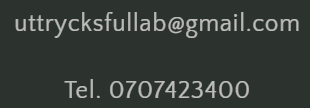
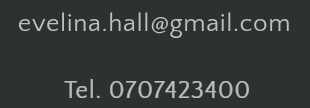
sync

Changed region(s): [[0.029, 0.1111, 0.9871, 0.3611]]

diff --git a/index.html b/index.html
@@ -20,16 +20,26 @@
   <meta name="twitter:description" content="Evelina Häll">
 
   <!-- Google tag (gtag.js) -->
-  <script async src="https://www.googletagmanager.com/gtag/js?id=G-5SR5Q91B7E"></script>
-  <script>
+<script async src="https://www.googletagmanager.com/gtag/js?id=G-2BZXZC4FWJ"></script>
+<script src="https://cdn.amplitude.com/libs/analytics-browser-2.11.1-min.js.gz"></script>
+<script src="https://cdn.amplitude.com/libs/plugin-session-replay-browser-1.8.0-min.js.gz"></script>
+
+<script>
     window.dataLayer = window.dataLayer || [];
     function gtag(){dataLayer.push(arguments);}
-    if (window.location.hostname.includes('evelinahall')) {
-      gtag('js', new Date());
+  if (window.location.hostname.includes('.se')) {
+    // GA
+    gtag('js', new Date());
+    gtag('config', 'G-2BZXZC4FWJ');
 
-      gtag('config', 'G-5SR5Q91B7E');
-    }
-  </script>
+    try {
+      // amplitude
+      window.amplitude.add(window.sessionReplay.plugin({sampleRate: 1}));
+      window.amplitude.init('5be63d17755e6d6ec7bd207ca9fa2553', {"autocapture":{"elementInteractions":true}});
+    } catch (e){}
+
+  }
+</script>
 
   <script src="/js/global.js" defer="defer"></script>
   <script src="/js/animations.js" defer="defer"></script>
@@ -121,22 +131,13 @@
                   <nav class="menu-drawer__navigation">
                     <ul class="menu-drawer__menu has-submenu list-menu" role="list">
                       <li><a id="HeaderDrawer-konst" href="#konst"
-                        class="menu-drawer__menu-item list-menu__item link link--text focus-inset">
+                        class="menu-drawer__menu-item list-menu__item link link--text focus-inset menu-drawer__menu-item--active" aria-current="page">
                         Konst
                       </a></li>
-                      <li><a id="HeaderDrawer-inredning" href="https://www.uttrycksfull.se"
-                          class="menu-drawer__menu-item list-menu__item link link--text focus-inset menu-drawer__menu-item--active"
-                          aria-current="page">
-                          Inredning &amp; Kreativa miljöer
-                        </a></li>
-                        <!-- <li><a id="HeaderDrawer-galleri" href="#galleri"
-                          class="menu-drawer__menu-item list-menu__item link link--text focus-inset">
-                          Galleri
-                        </a></li> -->
-                        <li><a id="HeaderDrawer-om" href="#om"
-                          class="menu-drawer__menu-item list-menu__item link link--text focus-inset">
-                          Om
-                        </a></li>
+                      <li><a id="HeaderDrawer-om" href="#om"
+                        class="menu-drawer__menu-item list-menu__item link link--text focus-inset">
+                        Om Evelina
+                      </a></li>
                     </ul>
                   </nav>
                   <div class="menu-drawer__utility-links">
@@ -173,20 +174,12 @@
         <nav class="header__inline-menu">
           <ul class="list-menu list-menu--inline" role="list">
             <li><a id="HeaderMenu-konst" href="#konst"
-              class="header__menu-item list-menu__item link link--text focus-inset">
+              class="header__menu-item list-menu__item link link--text focus-inset" aria-current="page">
               <span>Konst</span>
             </a></li>
-            <li><a id="HeaderMenu-inredning" href="https://www.uttrycksfull.se/#inredning" class="header__menu-item list-menu__item link link--text focus-inset"
-                aria-current="page">
-                <span>Inredning &amp; Kreativa miljöer</span>
-              </a></li>
-              <!-- <li><a id="HeaderMenu-galleri" href="#galleri"
+            <li><a id="HeaderMenu-om" href="#om"
                 class="header__menu-item list-menu__item link link--text focus-inset">
-                <span>Galleri</span>
-              </a></li> -->
-            <li><a id="HeaderMenu-om" href="https://www.uttrycksfull.se/#om"
-                class="header__menu-item list-menu__item link link--text focus-inset">
-                <span>Om</span>
+                <span>Om Evelina</span>
               </a></li>
           </ul>
         </nav>
@@ -263,7 +256,7 @@
         <div style="padding: 0px 16px 0px">
           <p style="text-align: left;">
             <img src="/img/evelina_small.jpg" alt="" width="153" style="float: right; padding: 12px;" class="norounding">
-            Min egen konst som letar efter miljöer och hem att få förgylla. Konsten är för mig ett sätt att ge uttryck för känslor och tankar och det fina är att en tavla eller ett konstverk kan betyda något helt annat för dig än för mig. Därför är just konst ett utmärkt sätt att omge sig av hemma eller i den miljön man befinner sig i. Målar främst i akryl och med mycket känslor. Konsten säljs av mig som privatperson/konstnär.
+            Min egen konst som letar efter miljöer och hem att få förgylla. Konsten är för mig ett sätt att ge uttryck för känslor och tankar och det fina är att en tavla eller ett konstverk kan betyda något helt annat för dig än för mig. Därför är just konst ett utmärkt sätt att omge sig av hemma eller i den miljön man befinner sig i. Målar främst i akryl och med mycket känslor.
           </p>
           <!--p style="text-align: left;">Många av mina tavlor finns nu för visning och försäljning i butiken <a href="https://norrgavel.se/information/kundservice/butiker">Norrgavel</a> i Lammhult.</p-->
         </div>
@@ -271,22 +264,23 @@
         <div>
           <div id="product_list" class="product_list">
             <!-- lägg till här -->
+            <div name="andrum3" title="Andrum 3" images="2" price="6 800" description="Akrylmålning i mått 82x82 cm inklusive vit träram" class="scroll-trigger animate--fade-in"></div>
+            <div name="flaskhals" title="Flaskhals" images="3" price="9 000" description="Akrylmålning i mått 82x102 cm inklusive vit träram" class="scroll-trigger animate--fade-in"></div>
             <div name="fallerfordig" title="Faller för dig" images="3" price="10 000" description="Akrylmålning i mått 102x102 cm inklusive träram i massiv ek" class="scroll-trigger animate--fade-in"></div>
 
             <div name="rundochkantig" title="Rund och kantig" images="2" price="9 000" description="Akrylmålning i mått 82x102 cm inklusive vit träram" class="scroll-trigger animate--fade-in"></div>
             <div name="overvaldigad" title="Överväldigad" images="2" price="9 000" description="Akryl- och oljepastellmålning i mått 83x102 cm inklusive vit träram" class="scroll-trigger animate--fade-in"></div>
-            <div name="rundochkantig" title="Rund och kantig" images="2" price="9 000" description="Akrylmålning i mått 82x102 cm inklusive vit träram" class="scroll-trigger animate--fade-in"></div>
             <div name="stegvis" title="Stegvis" images="2" price="9 000" description="Akrylmålning i mått 82x102 cm inklusive vit träram" class="scroll-trigger animate--fade-in"></div>
             <div name="paronsplit" title="Päronsplit" images="2" price="9 000" description="Akrylmålning i mått 82x102 cm inklusive vit träram" class="scroll-trigger animate--fade-in"></div>
 
             <div name="harochnubeige" title="Här och nu" images="2" price="4 800" description="Akrylmålning i mått 62x62 cm inklusive vit träram" class="scroll-trigger animate--fade-in"></div>
             <div name="harochnubla" title="Här och nu" images="3" price="4 800" description="Akrylmålning i mått 62x62 cm inklusive vit träram" class="scroll-trigger animate--fade-in"></div>
             <div name="alltgar" title="Allt går" images="4" price="3 800" description="Akrylmålning i mått 50x50 cm" class="scroll-trigger animate--fade-in"></div>
-            <div name="skuggspel" title="Skuggspel" images="2" price="4 200" description="Akrylmålning i mått 62x62 cm inklusive vit träram" class="scroll-trigger animate--fade-in"></div>
+            <div name="skuggspel" title="Skuggspel" images="3" price="4 200" description="Akrylmålning i mått 62x62 cm inklusive vit träram" class="scroll-trigger animate--fade-in"></div>
             <div name="lera" title="Lera" images="9" price="1 200 kr/st" description="Akrylmålning i mått 23x23 cm inklusive vit träram" class="scroll-trigger animate--fade-in"></div>
 
             <div name="karnfull" title="Kärnfull" images="2" price="9 000" description="Akrylmålning i mått 102x82 cm inklusive vit träram" class="scroll-trigger animate--fade-in"></div>
-            <div name="naralltarmojligt" title="När allt är möjligt" images="2" price="10 000" description="Akrylmålning i mått 102x102 cm inklusive vit träram" class="scroll-trigger animate--fade-in"></div>
+            <div name="naralltarmojligt" title="När allt är möjligt" images="3" price="10 000" description="Akrylmålning i mått 102x102 cm inklusive vit träram" class="scroll-trigger animate--fade-in"></div>
             
             <div name="leavingitbehind2" title="Leaving it behind" images="2" price="10 000" description="Akrylmålning i mått 102x102 cm inklusive vit träram" class="scroll-trigger animate--fade-in"></div>
             <div name="ullstrumpor" title="Ullstrumpor" images="3" price="8 000" description="Akrylmålning i mått 102x82 cm inklusive vit träram" class="scroll-trigger animate--fade-in"></div>
@@ -318,6 +312,29 @@
         </div>
       </div>
       <div class="page-width page-width--narrow section-template--19417874202955__main-padding">
+        <a id="om"></a>
+        <h1 class="main-page-title page-title h0 scroll-trigger animate--fade-in">
+          Om Evelina
+        </h1>
+        <div class="rte scroll-trigger animate--slide-in">
+          <p><img src="/img/IMG_5405.jpg" alt="Evelina Häll" width="311" data-mce-fragment="1"
+                  style="float: right; padding: 16px; max-width: 50%;" class="norounding">
+            Konstnär som utgår från Småland. Mitt i livet valde jag att satsa på drömmen om att uttrycka mig kreativt genom konsten. Älskar mötet med människor lika mycket som pensel och målarduk. Tror på att vidga vyerna och perspektiven för en bättre och mer färgrik värld där vi bemöter varandra med kärlek och respekt.
+          </p>
+          <p>Följ mig gärna på min resa i livet och hur jag uttrycker den via konsten.</p>
+          <h2>Mitt konstnärskap</h2>
+          <p>Jag har en bakgrund inom beteendevetenskap, och under många år gick mitt liv i en annan riktning. Men intresset för människan – hur vi fungerar, känner och relaterar – har alltid gått hand i hand med min kreativa sida. Det har funnits där som en röd tråd, ett behov av att uttrycka mig i bild, form och färg.</p>
+          <p>Ju mer man försöker förstå människan, desto mer inser man hur komplext allt är. Kanske är det just det jag fascineras av – att det inte finns en enda sanning. Vi tar in världen på olika sätt, tolkar och bearbetar den genom våra egna filter. Och någonstans där uppstår konsten.</p>
+          <p>När jag passerat 40 valde jag att följa en dröm jag länge burit på – att ge mer plats åt skapandet, åt händerna, åt det som kommer utan att alltid behöva tänkas igenom. Jag ville ge mig själv tillåtelse att bara skapa, och se vad som händer.</p>
+          <p>Min konst speglar ofta det inre – känslor, tankar och upplevelser som många av oss bär, mitt i vardagen. Vissa ser konst som något ytligt. Jag upplever det tvärtom. För mig handlar konst om att ge form åt det vi ibland har svårt att sätta ord på. Det är empati, det är kontakt. En bro mellan det yttre och det inre – och inte minst mellan oss människor.</p>
+          <h2>Skapandet i mitt liv</h2>
+          <p>Att få skapa är inte längre något jag kan lägga åt sidan. Det är en för viktig del av vem jag är.</p>
+          <p>Utöver mitt konstnärskap coachar jag även människor och tar mig an uppdrag inom andra kreativa områden, inredningsprojekt med en mer personlig touch likväl som konstnärliga utsmyckningar åt företag.</p>
+          <p>Jag är mitt i livet, med allt vad det innebär – och vill leva varje dag så nära det liv jag faktiskt vill ha. Skapandet kommer alltid att vara en del av det, oavsett om någon ser det eller inte.</p>
+          <p>Men jag är så tacksam för alla de samtal, möten och tankar som får växa i mötet med er – om konsten, och om livet.</p>
+          <p>Jag uppdaterar hemsidan löpande med nya verk. Vill du följa med bakom kulisserna och få information om kommande utställningar? Då hittar du mig även på Instagram.</p>
+          <p>Kontakta mig för dialog gällande samarbete.</p>
+        </div>
       </div>
 
     </section>
@@ -400,7 +417,7 @@
   </ul>
   <script>
     window.addEventListener('load', ()=>{
-      const adr = ['.com','ail', 'gm', '@','ab','evelina.hall'].reverse().join('');
+      const adr = ['.com','ail', 'gm', '@','evelina.hall'].reverse().join('');
       document.getElementById('info-link').href='mailto:'+adr;
     });
   </script>

diff --git a/js/scripts.js b/js/scripts.js
@@ -2,7 +2,24 @@ document.documentElement.className = document.documentElement.className.replace(
 
 const DISCLAIMER = 'Tavlorna säljs utan moms och köpet görs direkt av konstnären (Evelina Häll). Försäljningen av tavlor sker inte genom bolaget Uttrycksfull AB.';
 
+const getUserId = () => {
+  let userId = window.localStorage.getItem('userId');
+  if (!userId) {
+    userId = Math.random().toString(16).slice(2);
+    window.localStorage.setItem('userId', userId);
+  }
+  return userId;
+};
+
 const init = () => {
+
+  if (!window.location.hash && window.location.search && window.location.search.includes('%23')) {
+    const parts = decodeURIComponent(window.location.search).split('#');
+    if (parts && parts.length > 1 && parts[1]) {
+      window.location.hash = parts[1];
+    }
+  }
+
   const productShow = document.getElementById('product_show');
   const showImageDialog = document.getElementById('image_show');
   const showImageEl = document.getElementById('image_show_el');
@@ -33,10 +50,13 @@ const init = () => {
 
   const productById = {};
 
+  const userId = getUserId();
+
   Array.from(list.children).forEach(product=>{
     if (!product.attributes.name) {
       return;
     }
+    product.id = product.attributes.name;
     const div1 = document.createElement('div');
     const div2 = document.createElement('div');
     const img = document.createElement('img');
@@ -45,8 +65,10 @@ const init = () => {
     div1.appendChild(img);
 
     div1.className = 'product_image';
+    div1.id=product.attributes.name+'_image';
     div2.className = 'product_title';
     div2.innerText = product.attributes.title.value;
+    div2.id=product.attributes.name+'_title';
 
     product.appendChild(div1);
     product.appendChild(div2);
@@ -163,7 +185,7 @@ const init = () => {
     }
     updateUi();
 
-    if (gtag && window.location.hostname.includes('uttrycksfull')) {
+    if (gtag && window.location.hostname.includes('.se')) {
       gtag('event', 'page_view', {
         page_title: window.document.title,
         page_location: window.location.href
